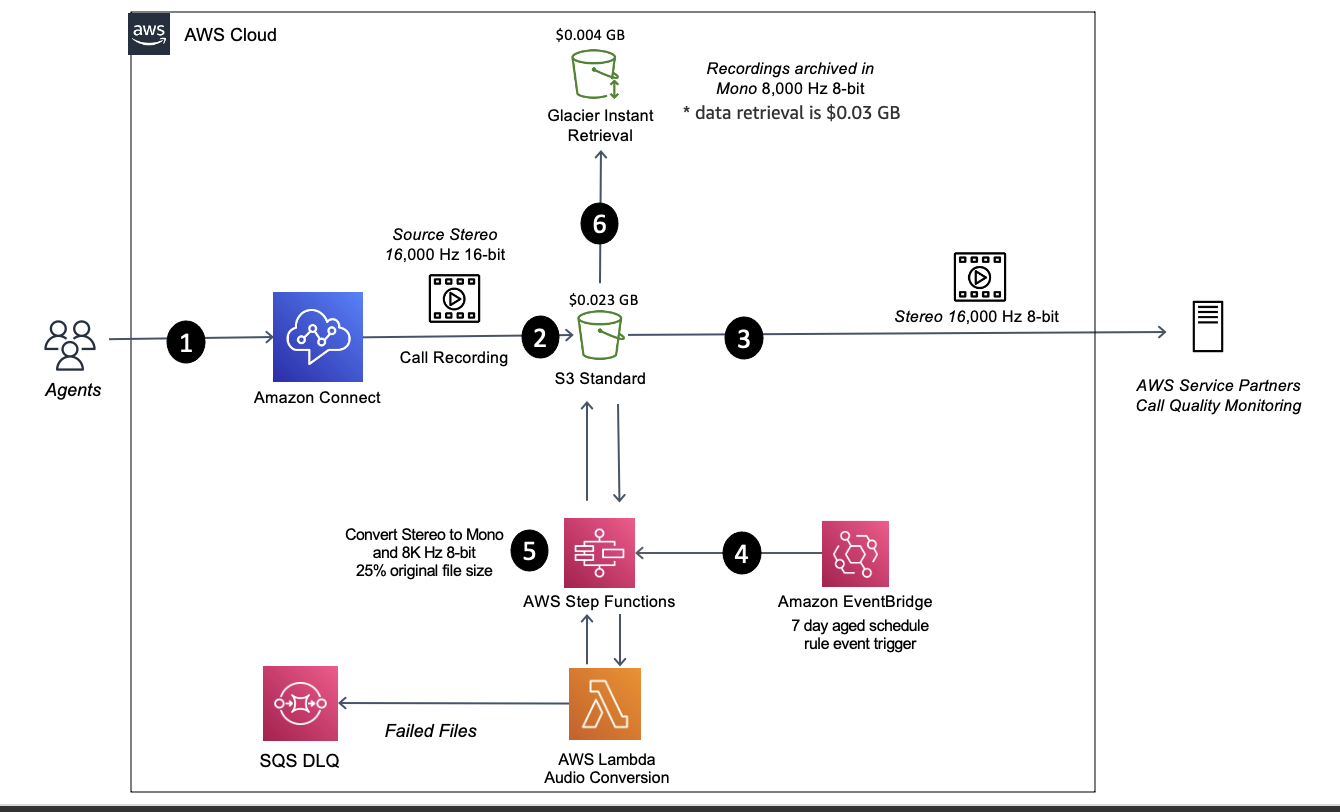
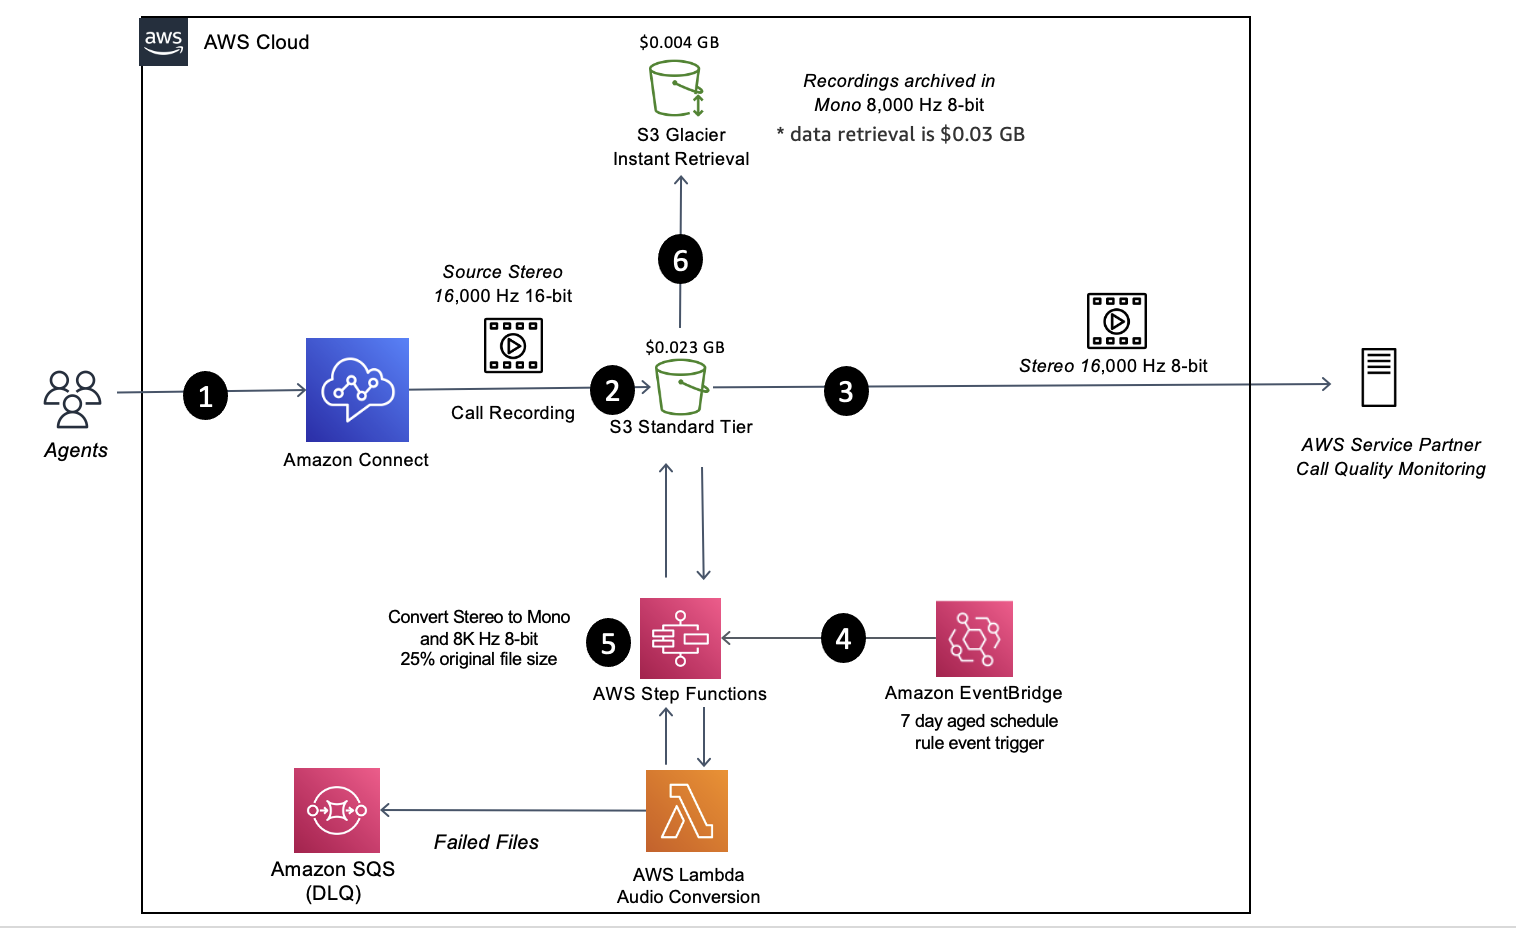
diagram updates

Changed region(s): [[0.0, 0.0, 1.0, 1.0], [0.5201, 0.0616, 0.6731, 0.1539], [0.4284, 0.2463, 0.459, 0.3079]]

diff --git a/README.md b/README.md
@@ -5,11 +5,11 @@
 This solution enables you to reduce the storage cost of archived contact center call recordings, by automating scheduling, storage tiering, and resampling of contact center call recording files. The solution is designed as serverless asynchronous workflow, utilizing AWS Step Functions, Amazon SQS, and AWS Lambda. 
 
 
-![Alt text](call-recordining-convert-arch-2.png?raw=true "Call Recording Conversion Solution")
+![Alt text](call-recording-convert-arch-2.png?raw=true "Call Recording Conversion Solution")
 
 
 # Solution
-A daily Amazon EventBridge scheduled rule triggers the AWS Step Functions workflow, which orchestrates the batch resampling process for all the files that are older than 7 days. For instance, if today was 15th of Feb, the workflow would not resample files between 15th of February and 8th of February, and it would only process files that are older than 8th of February.
+A daily Amazon EventBridge scheduled rule triggers the AWS Step Functions state machine, which orchestrates the batch resampling process for all the files that are older than 7 days. For instance, if today was 15th of Feb, the workflow would not resample files between 15th of February and 8th of February, and it would only process files that are older than 8th of February.
 
 In the First task ("7 days ago recordings s3 iterator"), a Lambda function ("step-iterator") iterates through Amazon Connect call recording S3 bucket using the ListObjectsV2 API obtaining the call recordings (1000 objects per iteration) with the S3 date prefix from 7 days ago.
 
@@ -20,7 +20,10 @@ Figure 3. Step Function workflow diagram
 AWS Step Functions workflow handles failures, through logging, and a dead-letter queue (DLQ), ("connect_audio_convert_dlq"), to collect messages that can't be processed successfully. The resampling Lambda function ("media-convert-files") uses another DLQ ("connect_audio_convert_dest_failure_queue") for files that can't be resampled. A Step Function task ("More files to process?") monitors the SQS queue ("connect_audio_convert"), using the Step Functions AWS SDK integration with SQS, and completes the Step Function workflow when the queue ("connect_audio_convert") is emptied.
 
 
-![Alt text](call-recordining-convert-arch.png?raw=true "Call Recording Conversion Architecture Diagram")
+![Alt text](call-recording-convert-arch-3.png?raw=true "Call Recording Resampling Architecture Diagram")
+
+
+![Alt text](call-recording-convert-arch-4.png?raw=true "Call Recording Resampling Architecture AWS Step Function state machine")
 
 
 # Deploying the project
